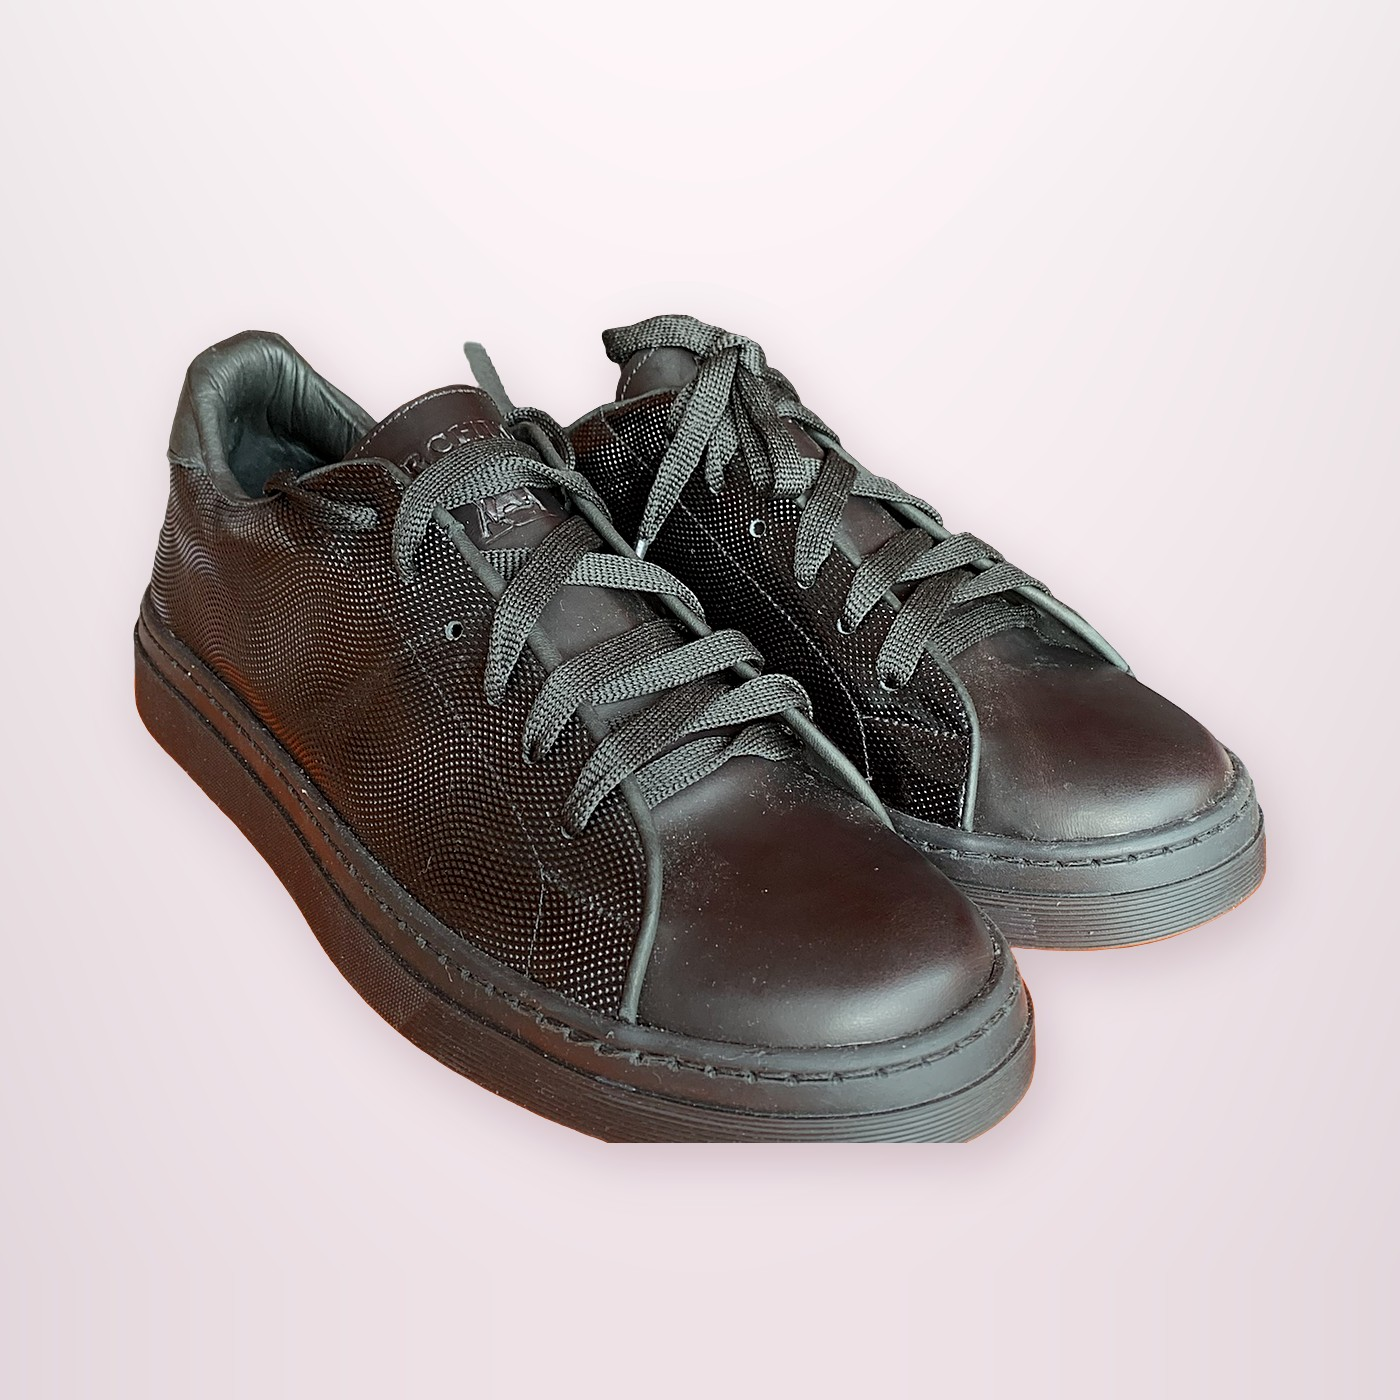
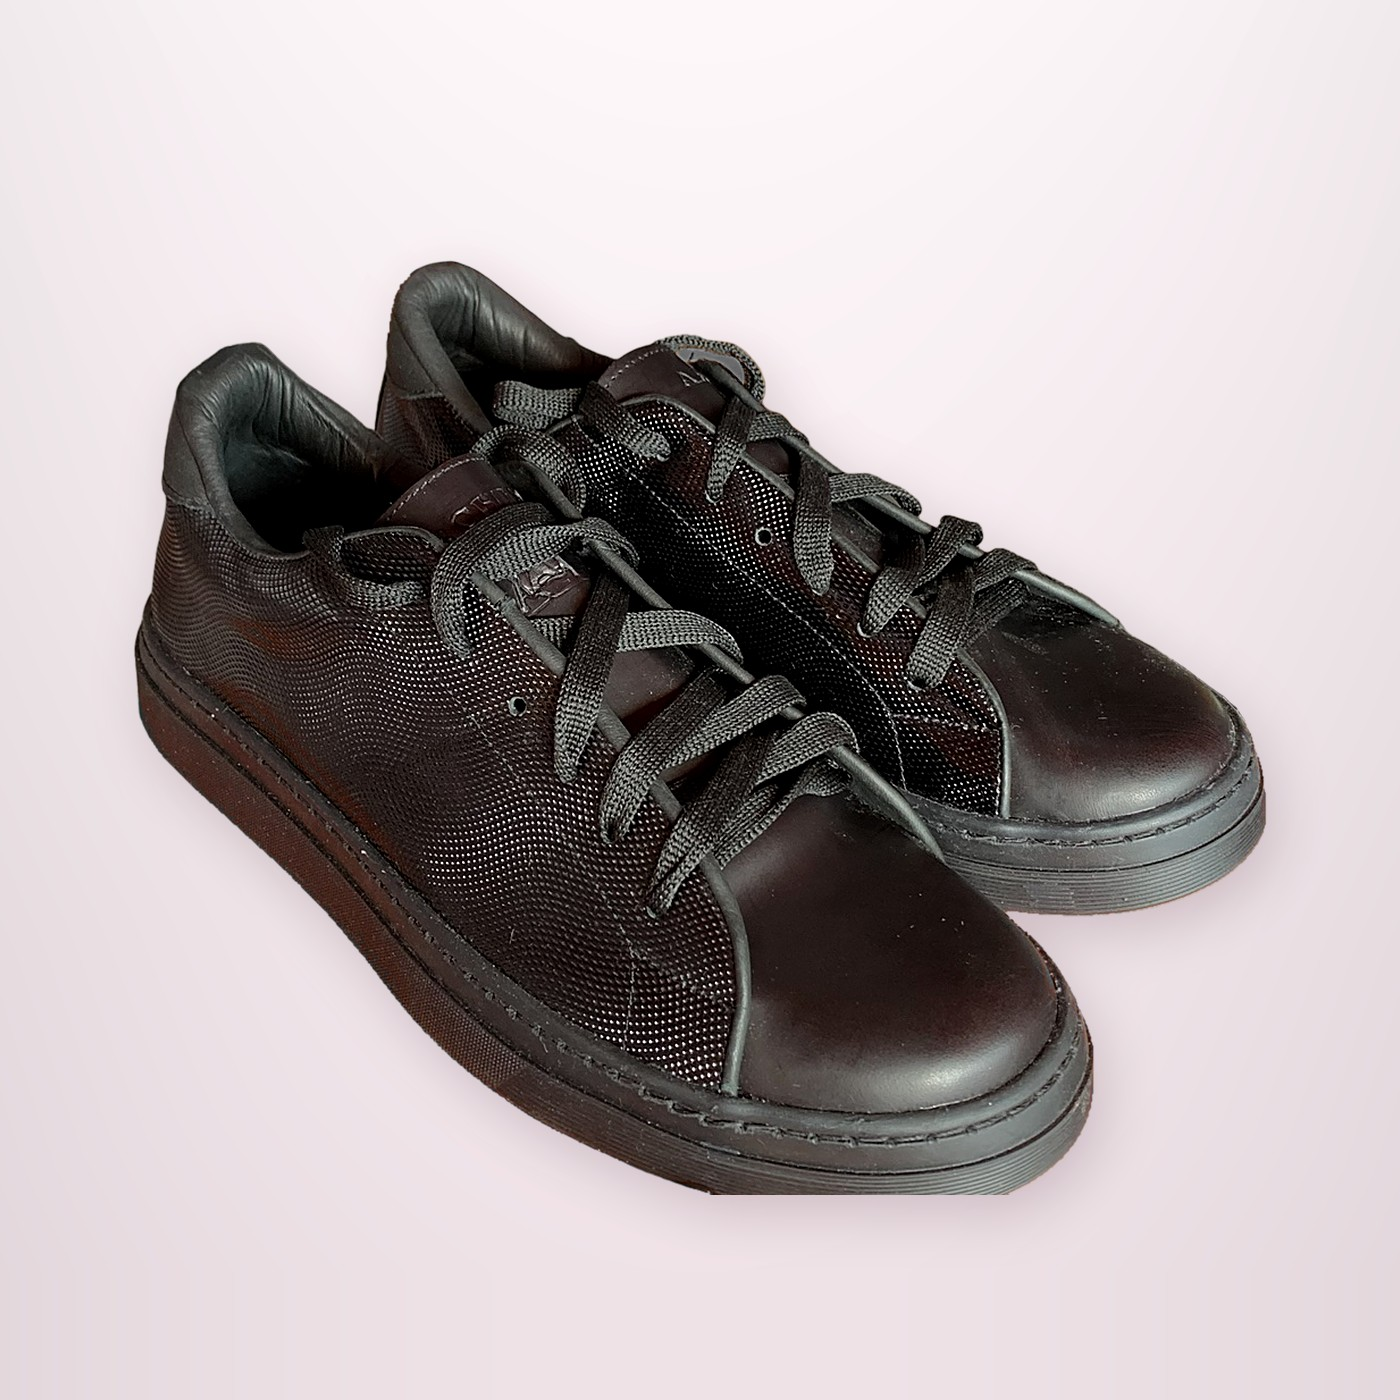
Zapatillas Falcon negro con suela negra: foto nueva completa
Claude-Session: https://claude.ai/code/session_016kC1pPyL2jkNLS5KGy46ZW

Changed region(s): [[0.0921, 0.1843, 0.9214, 0.86]]

diff --git a/CLAUDE.md b/CLAUDE.md
@@ -32,7 +32,7 @@ No hay Node ni Python en las computadoras. `.claude/launch.json` → "tienda" le
 - WhatsApp del local: 11 2474 1073 (`5491124741073`, desde 2026-10-07, pedido del dueño; antes 11 5909 9386 y antes 11 6949 0396, que no se puede publicar por temas legales: no usar ninguno de los dos), botón flotante abajo a la derecha.
 - Instagram: https://www.instagram.com/nacireinacalzados/ (link en el pie de página y en `sameAs` del JSON-LD). Facebook no se usa.
 - Zapatos Panchas (id 71, 2026-09-29): Suela, Negro y Negro gamuza, fotos propias. Talles 40 a 44 (todas las variantes). El dueño cargó precio y talles desde el editor (quedan en la base de datos, no en productos.js).
-- Zapatillas Falcon (id 72, 2026-09-29): Negro con suela camel, Negro con suela negra, Marrón (id interno "chocolate", renombrado por el dueño) y Blanco, todas con foto (la blanca se recortó con un encuadre más amplio: con el recorte ajustado el modelo se comía el cuero blanco). Talles 39 a 45. Precio $63.800 en todos los colores (dato del dueño: $58.000 + 10%).
+- Zapatillas Falcon (id 72, 2026-09-29): Negro con suela camel, Negro con suela negra, Marrón (id interno "chocolate", renombrado por el dueño) y Blanco, todas con foto (la blanca se recortó con un encuadre más amplio: con el recorte ajustado el modelo se comía el cuero blanco). Talles 39 a 45. Precio $63.800 en todos los colores (dato del dueño: $58.000 + 10%). 2026-10-20: foto nueva del Negro con suela negra (en la anterior el recorte se comía la punta; el dueño mandó otra).
 - Sueco de gamuzón con hebilla (id 73, 2026-09-29; antes "Sueco de gamuza con hebilla", renombrado por el dueño 2026-10-11): color Crudo, talles 35–40, $24.200 ($22.000 + 10%, dato del dueño). En la foto se recuperó a mano (por color) el corcho de atrás.
 - Borcego acordonado con cuello acolchado (id 74, camel, $33.000 = $30.000 + 10%) y Zapato punta fina con hebillas y tachas (id 75, suela, $44.000 = $40.000 + 10%; color Negro con foto real agregado después, mismo precio), 2026-09-29, talles 35–40. Las fotos venían con placas "Todo20"; se recortó solo el calzado sobre el fondo de estudio.
 - Sueco de gamuza con tira y hebilla (id 76, topo): era el Bison de los Suecos Petty, quedó `oculto` a pedido del dueño. Borcego con plataforma dentada (id 77, negro), 2026-09-29: $33.000 ($30.000 + 10%), talles 35–40.
